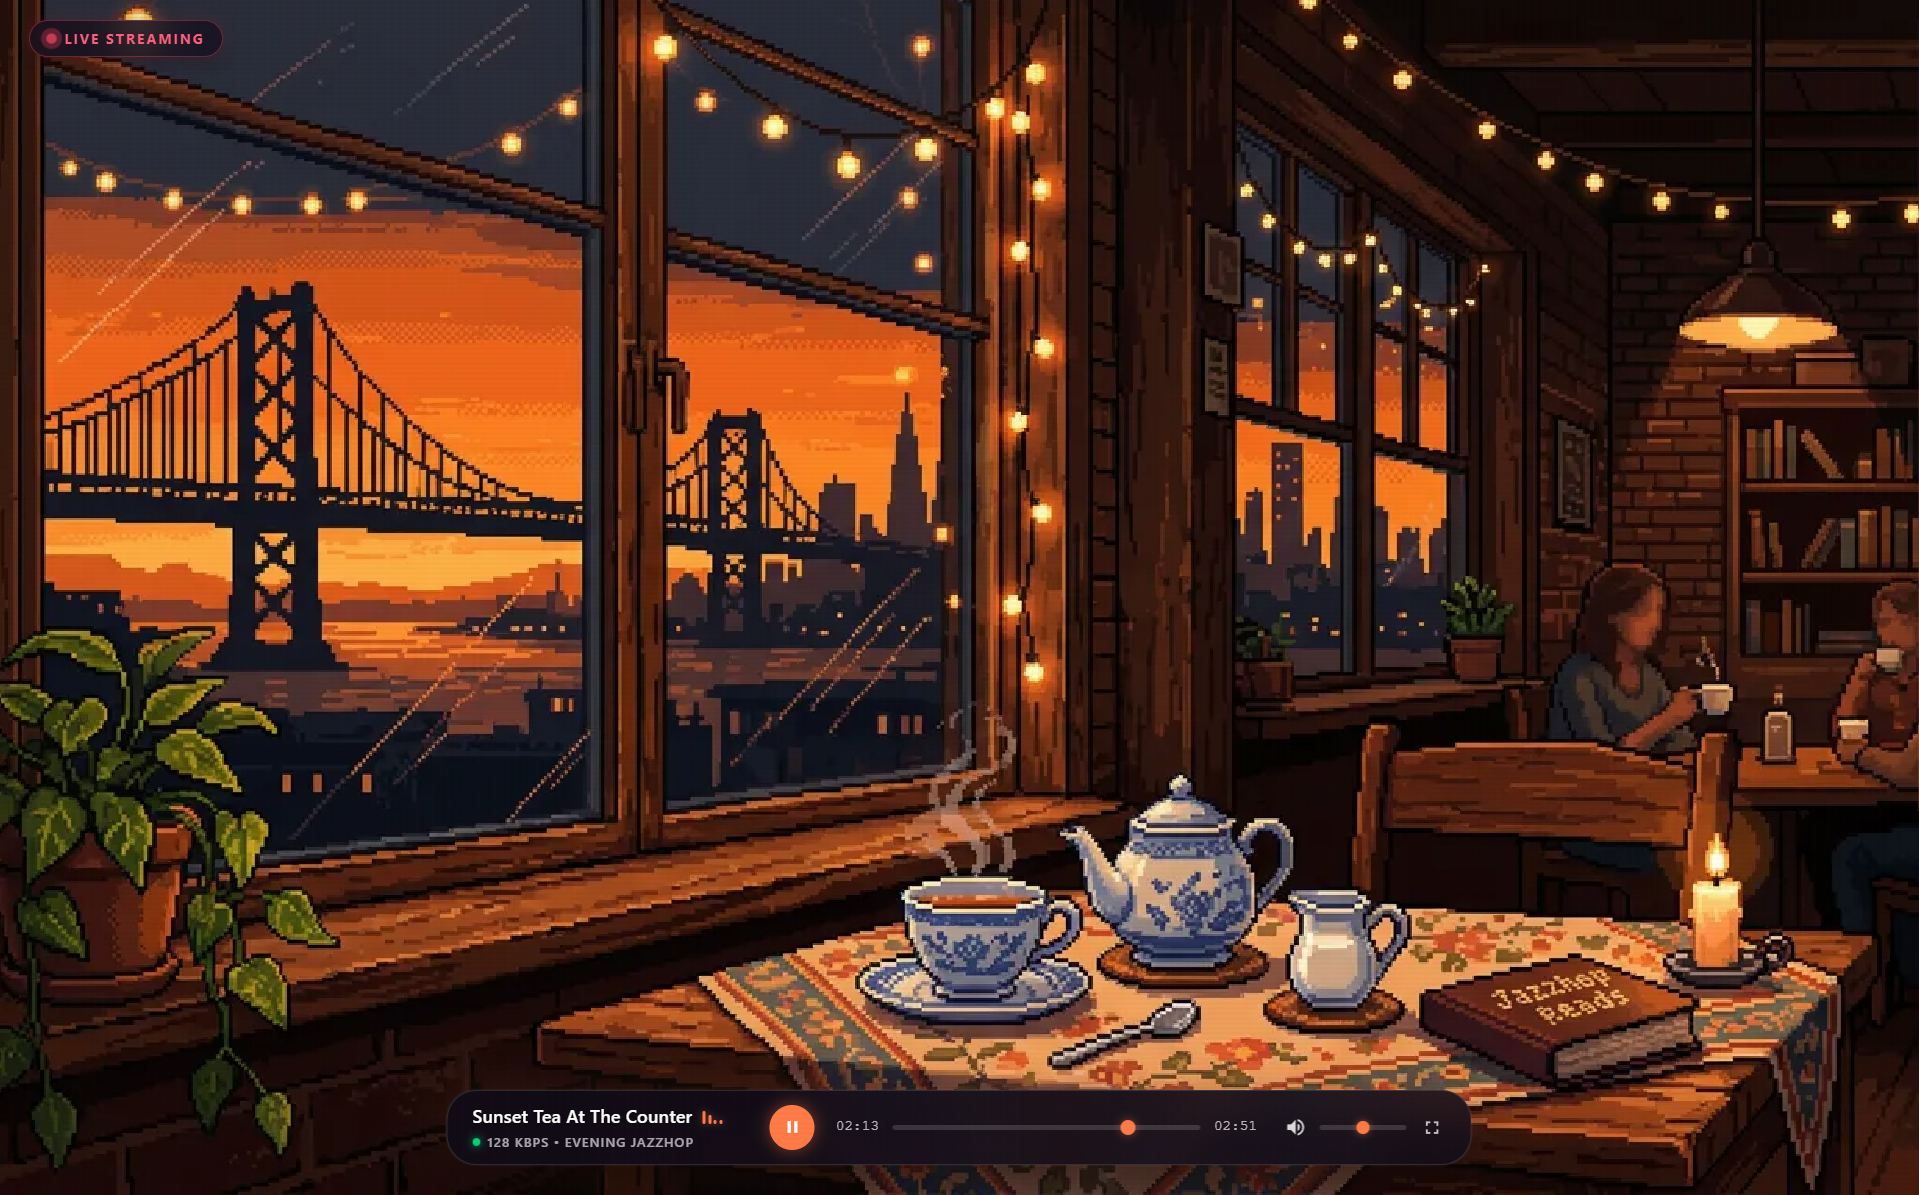
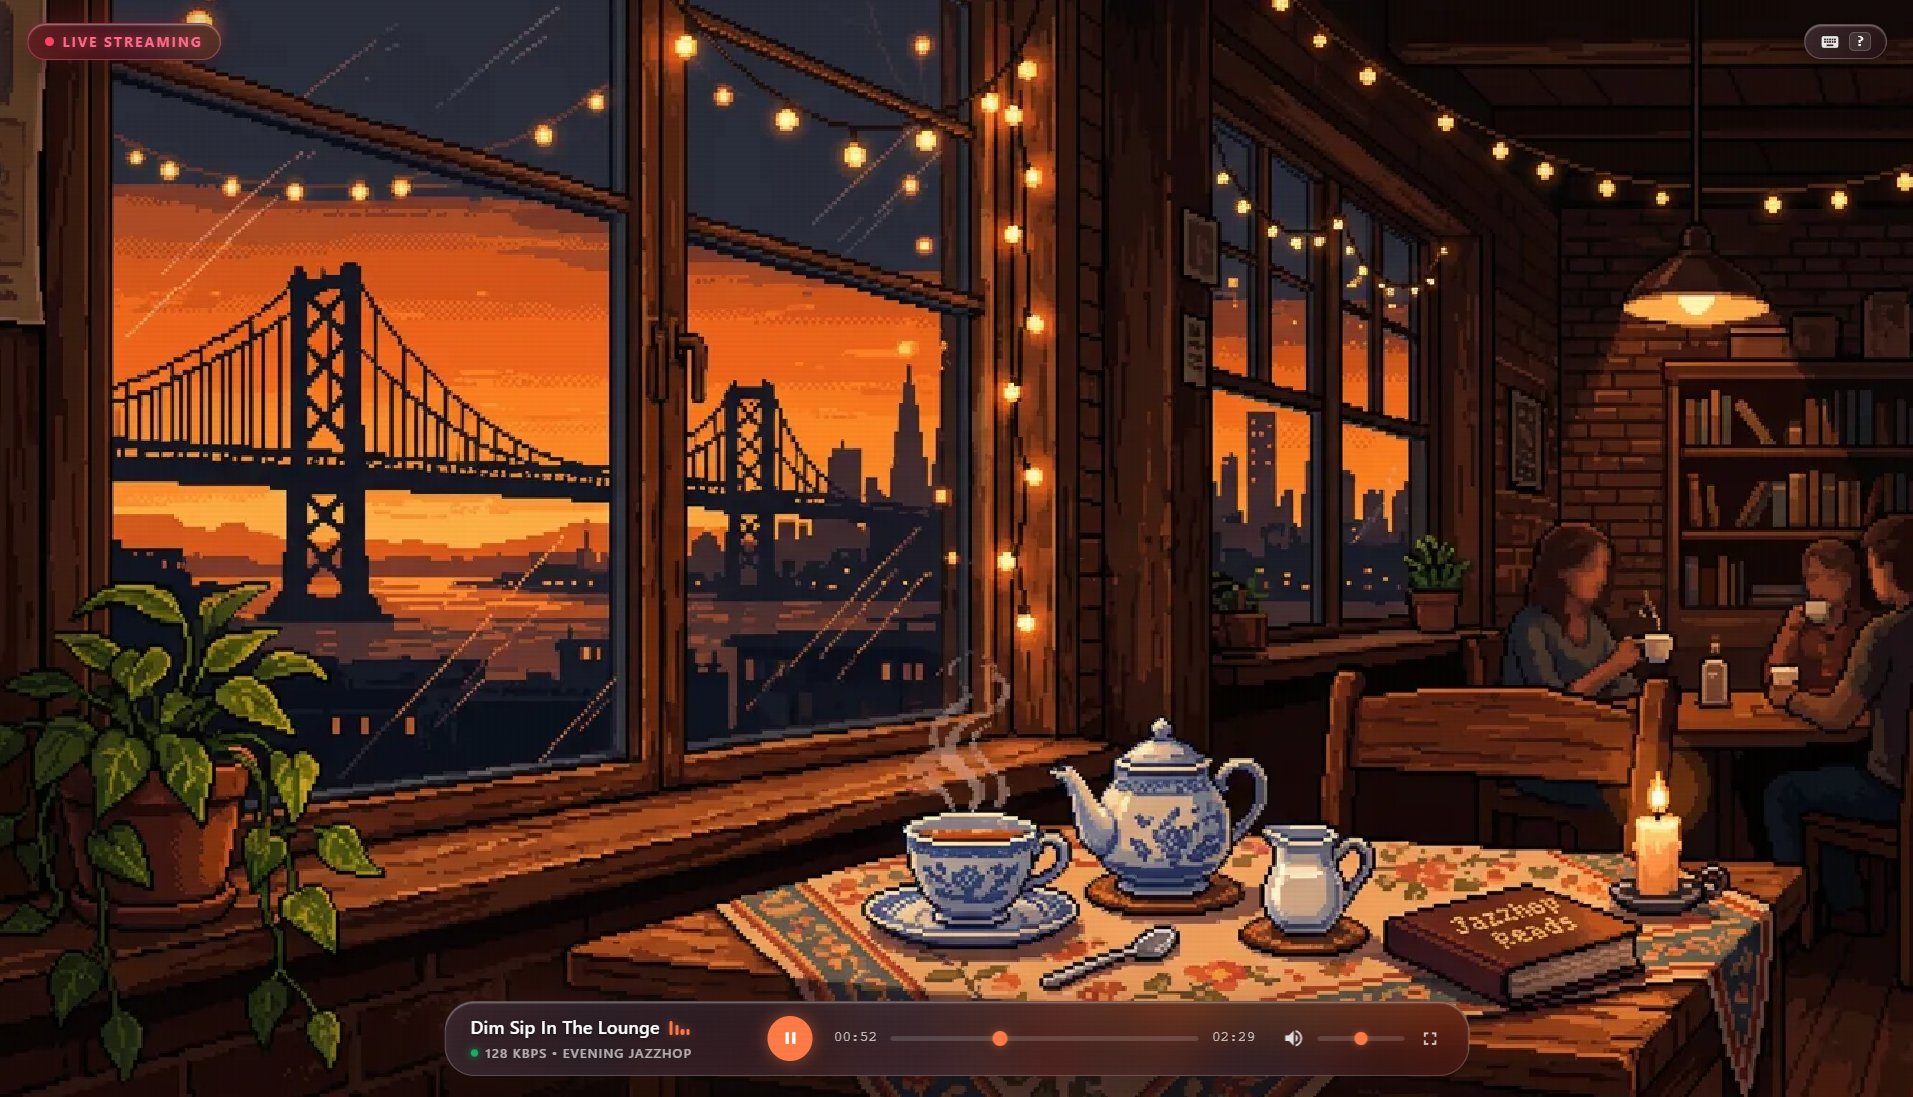
Add keyboard shortcuts menu and enhance fullscreen handling in player UI

diff --git a/src/Radio.Web/Components/Pages/Home.razor.css b/src/Radio.Web/Components/Pages/Home.razor.css
@@ -98,28 +98,214 @@
     --accent-island-glow: rgba(255, 0, 127, 0.18);
 }
 
-/* Widescreen Live Badge (pinned absolutely on top left) */
-.live-badge {
+/* Widescreen Live Badge & Shortcuts Top Bar */
+.top-nav-bar {
     position: absolute;
     top: 20px;
     left: 24px;
+    right: 24px;
+    display: flex;
+    justify-content: space-between;
+    align-items: center;
     z-index: 9;
+    pointer-events: none; /* children enable pointer-events */
+}
+
+.live-badge {
+    position: static; /* position handled by .top-nav-bar */
+    z-index: 9;
+    pointer-events: auto;
     margin-bottom: 0;
     display: inline-flex;
     align-items: center;
-    background: rgba(18, 12, 28, 0.7);
-    backdrop-filter: blur(16px);
-    -webkit-backdrop-filter: blur(16px);
-    border: 1px solid rgba(255, 69, 102, 0.35);
-    color: #ff5e7e;
+    background: linear-gradient(135deg, rgba(255, 69, 102, 0.24) 0%, rgba(255, 69, 102, 0.06) 100%), rgba(14, 9, 24, 0.45);
+    backdrop-filter: blur(24px) saturate(190%) contrast(105%);
+    -webkit-backdrop-filter: blur(24px) saturate(190%) contrast(105%);
+    border: 1px solid rgba(255, 94, 126, 0.4);
+    color: #ff6b8b;
     padding: 0.35rem 0.85rem;
     border-radius: 9999px;
     font-size: 0.7rem;
     font-weight: 700;
     text-transform: uppercase;
     letter-spacing: 1.5px;
-    box-shadow: 0 4px 16px rgba(0, 0, 0, 0.3), 0 0 12px rgba(255, 69, 102, 0.15);
+    text-shadow: 0 0 8px rgba(255, 69, 102, 0.6);
+    box-shadow: 0 8px 24px rgba(0, 0, 0, 0.45), inset 0 1px 1px rgba(255, 255, 255, 0.4), 0 0 16px rgba(255, 69, 102, 0.25);
     transition: opacity 0.4s ease, transform 0.4s ease;
+}
+
+/* Modern Minimalist Keyboard Shortcuts Button & Dropdown Wrapper */
+.shortcuts-wrapper {
+    position: relative;
+    pointer-events: auto;
+}
+
+.shortcuts-btn {
+    pointer-events: auto;
+    display: inline-flex;
+    align-items: center;
+    gap: 7px;
+    background: linear-gradient(135deg, rgba(255, 255, 255, 0.14) 0%, rgba(255, 255, 255, 0.03) 100%), rgba(14, 9, 24, 0.45);
+    backdrop-filter: blur(24px) saturate(190%) contrast(105%);
+    -webkit-backdrop-filter: blur(24px) saturate(190%) contrast(105%);
+    border: 1px solid rgba(255, 255, 255, 0.22);
+    color: rgba(255, 255, 255, 0.9);
+    padding: 0.32rem 0.75rem;
+    border-radius: 9999px;
+    font-size: 0.75rem;
+    font-weight: 600;
+    cursor: pointer;
+    box-shadow: 0 4px 16px rgba(0, 0, 0, 0.3), inset 0 1px 1px rgba(255, 255, 255, 0.35);
+    transition: all 0.2s cubic-bezier(0.4, 0, 0.2, 1);
+}
+
+.shortcuts-btn:hover,
+.shortcuts-btn.active {
+    background: linear-gradient(135deg, rgba(255, 255, 255, 0.22) 0%, rgba(255, 255, 255, 0.06) 100%), rgba(20, 14, 32, 0.6);
+    color: #ffffff;
+    border-color: rgba(255, 255, 255, 0.35);
+    transform: translateY(-1px);
+    box-shadow: 0 6px 20px rgba(0, 0, 0, 0.4), inset 0 1px 1px rgba(255, 255, 255, 0.5), 0 0 14px var(--accent-glow);
+}
+
+.shortcuts-btn:active {
+    transform: translateY(0);
+}
+
+.shortcuts-key {
+    background: rgba(255, 255, 255, 0.1);
+    border: 1px solid rgba(255, 255, 255, 0.18);
+    border-radius: 4px;
+    padding: 1px 5px;
+    font-size: 0.68rem;
+    font-family: ui-monospace, SFMono-Regular, Menlo, Monaco, Consolas, monospace;
+    font-weight: 700;
+    line-height: 1.1;
+    color: #ffffff;
+}
+
+/* Glassmorphism Shortcuts Dropdown Menu (Anchored Top-Right) */
+.shortcuts-dropdown {
+    position: absolute;
+    top: calc(100% + 10px);
+    right: 0;
+    width: 280px;
+    background: linear-gradient(135deg, rgba(255, 255, 255, 0.14) 0%, rgba(255, 255, 255, 0.03) 100%), rgba(14, 9, 24, 0.45);
+    backdrop-filter: blur(24px) saturate(190%) contrast(105%);
+    -webkit-backdrop-filter: blur(24px) saturate(190%) contrast(105%);
+    border: 1px solid rgba(255, 255, 255, 0.22);
+    border-radius: 18px;
+    padding: 14px 16px;
+    box-shadow: 0 20px 48px rgba(0, 0, 0, 0.5), inset 0 1px 1px rgba(255, 255, 255, 0.35), inset 0 0 16px rgba(255, 255, 255, 0.04), 0 0 24px var(--accent-glow);
+    color: #ffffff;
+    z-index: 100;
+    animation: dropDownSlide 0.22s cubic-bezier(0.34, 1.56, 0.64, 1);
+    box-sizing: border-box;
+}
+
+@keyframes dropDownSlide {
+    from { transform: translateY(-8px) scale(0.96); opacity: 0; }
+    to { transform: translateY(0) scale(1); opacity: 1; }
+}
+
+.dropdown-header {
+    display: flex;
+    align-items: center;
+    justify-content: space-between;
+    padding-bottom: 10px;
+    margin-bottom: 10px;
+    border-bottom: 1px solid rgba(255, 255, 255, 0.12);
+}
+
+.dropdown-title-group {
+    display: flex;
+    align-items: center;
+    gap: 7px;
+    font-size: 0.82rem;
+    font-weight: 700;
+    color: #ffffff;
+    letter-spacing: 0.4px;
+    text-shadow: 0 1px 3px rgba(0, 0, 0, 0.5);
+}
+
+.dropdown-icon {
+    width: 15px;
+    height: 15px;
+    color: var(--accent);
+}
+
+.dropdown-close-btn {
+    background: rgba(255, 255, 255, 0.08);
+    border: 1px solid rgba(255, 255, 255, 0.12);
+    color: rgba(255, 255, 255, 0.7);
+    width: 22px;
+    height: 22px;
+    border-radius: 50%;
+    display: flex;
+    align-items: center;
+    justify-content: center;
+    font-size: 0.72rem;
+    cursor: pointer;
+    transition: all 0.15s ease;
+}
+
+.dropdown-close-btn:hover {
+    color: #ffffff;
+    background: rgba(255, 255, 255, 0.2);
+    border-color: rgba(255, 255, 255, 0.3);
+}
+
+.dropdown-list {
+    display: flex;
+    flex-direction: column;
+    gap: 6px;
+}
+
+.dropdown-item {
+    display: flex;
+    align-items: center;
+    justify-content: space-between;
+    padding: 6px 10px;
+    border-radius: 10px;
+    background: rgba(255, 255, 255, 0.06);
+    border: 1px solid rgba(255, 255, 255, 0.08);
+    transition: background 0.15s ease;
+}
+
+.dropdown-item:hover {
+    background: rgba(255, 255, 255, 0.12);
+}
+
+.dropdown-label {
+    font-size: 0.78rem;
+    color: rgba(255, 255, 255, 0.9);
+    font-weight: 500;
+    text-shadow: 0 1px 2px rgba(0, 0, 0, 0.4);
+}
+
+.dropdown-item kbd,
+.dropdown-keys kbd {
+    background: rgba(255, 255, 255, 0.12);
+    border: 1px solid rgba(255, 255, 255, 0.22);
+    border-bottom: 2px solid rgba(255, 255, 255, 0.35);
+    border-radius: 5px;
+    padding: 2px 7px;
+    font-size: 0.68rem;
+    font-family: ui-monospace, SFMono-Regular, Menlo, Monaco, Consolas, monospace;
+    font-weight: 700;
+    color: #ffffff;
+    box-shadow: 0 2px 5px rgba(0, 0, 0, 0.3);
+}
+
+.dropdown-keys {
+    display: flex;
+    align-items: center;
+    gap: 4px;
+}
+
+.key-sep {
+    font-size: 0.68rem;
+    color: rgba(255, 255, 255, 0.5);
 }
 
 .live-badge.playing .live-dot {
@@ -203,10 +389,10 @@
     transform: translateX(-50%);
     width: calc(100% - 48px);
     max-width: 820px;
-    background: rgba(16, 11, 26, 0.78);
-    backdrop-filter: blur(20px);
-    -webkit-backdrop-filter: blur(20px);
-    border: 1px solid rgba(255, 255, 255, 0.12);
+    background: linear-gradient(135deg, rgba(255, 255, 255, 0.12) 0%, rgba(255, 255, 255, 0.02) 100%), rgba(14, 9, 24, 0.45);
+    backdrop-filter: blur(24px) saturate(190%) contrast(105%);
+    -webkit-backdrop-filter: blur(24px) saturate(190%) contrast(105%);
+    border: 1px solid rgba(255, 255, 255, 0.2);
     border-radius: 24px;
     padding: 10px 20px;
     display: flex;
@@ -214,19 +400,22 @@
     justify-content: center;
     z-index: 10;
     box-sizing: border-box;
-    box-shadow: 0 16px 36px rgba(0, 0, 0, 0.5), 0 0 40px var(--accent-island-glow), 0 0 0 1px rgba(255, 255, 255, 0.05);
+    box-shadow: 0 20px 48px rgba(0, 0, 0, 0.5), inset 0 1px 1px rgba(255, 255, 255, 0.35), inset 0 0 16px rgba(255, 255, 255, 0.03), 0 0 40px var(--accent-island-glow);
     transition: opacity 0.4s cubic-bezier(0.4, 0, 0.2, 1), transform 0.4s ease, box-shadow 0.8s ease;
 }
 
 /* Zen Mode HUD Auto-Hide */
 body.hud-idle .integrated-player-bar,
+body.hud-idle .top-nav-bar,
 body.hud-idle .live-badge,
+body.hud-idle .shortcuts-btn,
 body.hud-idle .hero-tagline {
     opacity: 0;
     pointer-events: none;
-    transform: translateY(8px);
 }
+body.hud-idle .top-nav-bar,
 body.hud-idle .live-badge,
+body.hud-idle .shortcuts-btn,
 body.hud-idle .hero-tagline {
     transform: translateY(-8px);
 }
@@ -235,7 +424,9 @@ body.hud-idle .integrated-player-bar {
 }
 
 .integrated-player-bar:hover,
+.top-nav-bar:hover,
 .live-badge:hover,
+.shortcuts-btn:hover,
 .hero-tagline:hover {
     opacity: 1 !important;
     pointer-events: auto !important;
@@ -936,17 +1127,10 @@ body.hud-idle .integrated-player-bar {
     }
 
     /* Floating badges positioned precisely in the top-left and top-right corners of the rounded album art cover */
-    .live-badge {
-        top: 16px; /* Stuck beautifully 16px from top edge of cover art */
-        left: 16px; /* Stuck beautifully 16px from left edge of cover art */
-        background: rgba(9, 5, 17, 0.85);
-        border-color: #ff4566;
-    }
-
-    .hero-tagline {
-        top: 16px; /* Stuck beautifully 16px from top edge of cover art */
-        right: 16px; /* Stuck beautifully 16px from right edge of cover art */
-        background: rgba(9, 5, 17, 0.85);
+    .top-nav-bar {
+        top: 14px;
+        left: 14px;
+        right: 14px;
     }
 
     /* Bottom Section: Compact, lower dark console pushed towards the thumb level */

diff --git a/src/Radio.Web/wwwroot/js/lofiPlayer.js b/src/Radio.Web/wwwroot/js/lofiPlayer.js
@@ -61,6 +61,14 @@ window.lofiPlayer = {
                     this.dotNetRef.invokeMethodAsync('OnPlaybackStatusChanged', false);
                     this.stopSyncTimer(); // Stop local UI updates to conserve resources
                 });
+
+                // Listen for native Fullscreen mode changes (F key, button click, ESC)
+                document.addEventListener('fullscreenchange', () => {
+                    const isFullscreen = !!document.fullscreenElement;
+                    if (this.dotNetRef) {
+                        this.dotNetRef.invokeMethodAsync('OnFullscreenChanged', isFullscreen);
+                    }
+                });
                 this.audio.addEventListener('timeupdate', () => {
                     const currentTime = this.audio.currentTime;
                     const duration = this.audio.duration;
@@ -119,14 +127,30 @@ window.lofiPlayer = {
                     if (playBtn) {
                         this.unlock();
                     }
+                    // Auto-close shortcuts dropdown on outside click
+                    if (!e.target.closest('.shortcuts-wrapper')) {
+                        if (this.dotNetRef) {
+                            this.dotNetRef.invokeMethodAsync('CloseShortcutsMenuFromJs');
+                        }
+                    }
                 });
 
-                // Global Keyboard Shortcuts (Space: Play/Pause, M: Mute, F: Fullscreen, Arrows: Volume)
+                // Global Keyboard Shortcuts (Space: Play/Pause, M: Mute, F: Fullscreen, Arrows: Volume, ?: Shortcuts Help)
                 window.addEventListener('keydown', (e) => {
                     // Ignore when user is focusing an input, textarea or button
                     if (['INPUT', 'TEXTAREA', 'SELECT'].includes(e.target.tagName)) return;
 
-                    if (e.code === 'Space') {
+                    if (e.key === '?' || e.key === 'h' || e.key === 'H') {
+                        e.preventDefault();
+                        if (this.dotNetRef) {
+                            this.dotNetRef.invokeMethodAsync('ToggleShortcutsModalFromJs');
+                        }
+                    } else if (e.key === 'Escape') {
+                        const dropdown = document.querySelector('.shortcuts-dropdown');
+                        if (dropdown && this.dotNetRef) {
+                            this.dotNetRef.invokeMethodAsync('ToggleShortcutsModalFromJs');
+                        }
+                    } else if (e.code === 'Space') {
                         e.preventDefault();
                         const willPause = this.audio && !this.audio.paused;
                         const playBtn = document.querySelector('.bar-play-btn, .bottom-play-btn');
@@ -169,6 +193,10 @@ window.lofiPlayer = {
                     if (this.audio && !this.audio.paused) {
                         idleTimeout = setTimeout(() => {
                             document.body.classList.add('hud-idle');
+                            // Auto-close open shortcuts dropdown when HUD fades out
+                            if (this.dotNetRef) {
+                                this.dotNetRef.invokeMethodAsync('CloseShortcutsMenuFromJs');
+                            }
                         }, 15000);
                     }
                 };
